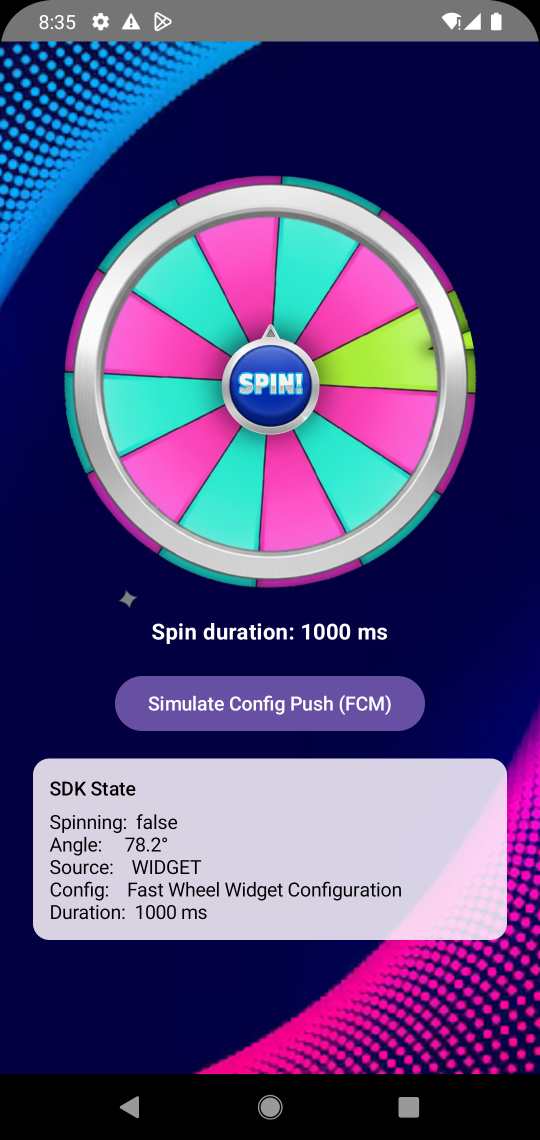
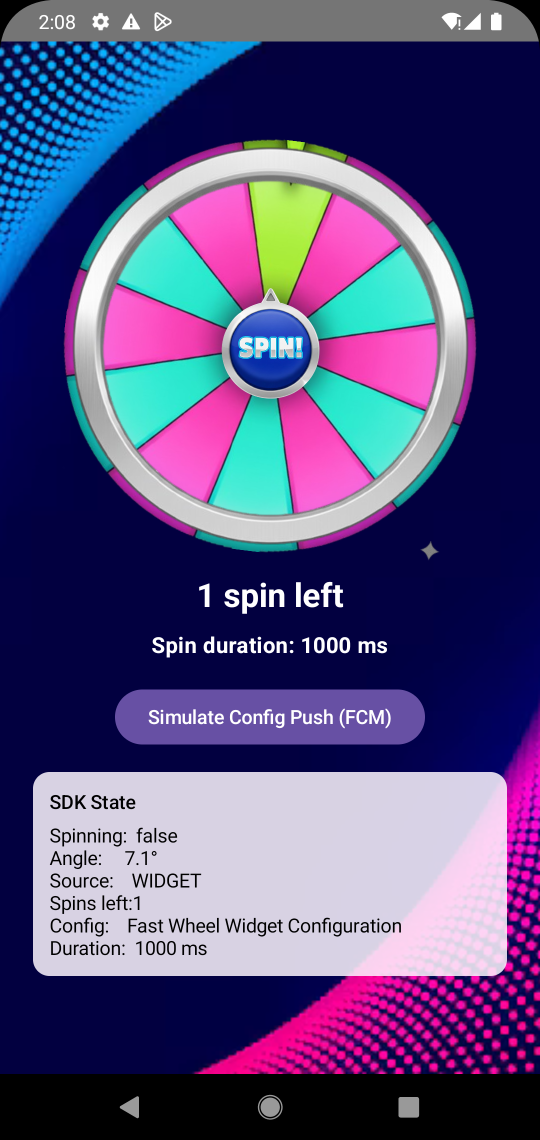
spins remaining + new scrnshots

diff --git a/spinwheel-sdk/src/main/java/com/bez/spinwheel_sdk/presentation/WheelComposable.kt b/spinwheel-sdk/src/main/java/com/bez/spinwheel_sdk/presentation/WheelComposable.kt
@@ -91,6 +91,8 @@ private fun SpinWheelScreen(config: WheelConfig) {
 
     val sdkState by SpinWheelSdk.spinState.collectAsState()
     val anySpinning = isSpinning || sdkState.isSpinning
+    val spinsRemaining = sdkState.spinsRemaining
+    val disabled = anySpinning || spinsRemaining == 0
 
     // When the activity returns to foreground, snap instantly to the latest saved angle.
     // snapTo() completes synchronously with no animation — no flag or listener needed.
@@ -122,7 +124,7 @@ private fun SpinWheelScreen(config: WheelConfig) {
 
 
     fun triggerSpin() {
-        val spins = (rotation.minimumSpins..rotation.maximumSpins).random()
+        val spins = (minOf(rotation.minimumSpins, rotation.maximumSpins)..maxOf(rotation.minimumSpins, rotation.maximumSpins)).random()
         val delta = spins * 360f + Random.nextFloat() * 360f
         val startAngle = wheelAngle.value
         scope.launch {
@@ -185,18 +187,29 @@ private fun SpinWheelScreen(config: WheelConfig) {
                     modifier = Modifier.fillMaxSize()
                 )
 
-                // ── Layer 4: spin button — disabled while any spin is in progress ──
+                // ── Layer 4: spin button — disabled while spinning or spins exhausted ──
                 Image(
                     painter = painterResource(R.drawable.wheel_spin),
-                    contentDescription = if (anySpinning) null else "Tap to spin",
+                    contentDescription = if (disabled) null else "Tap to spin",
                     modifier = Modifier
                         .size(96.dp)
-                        .alpha(if (anySpinning) 0.35f else 1f)
-                        .clickable(enabled = !anySpinning) { triggerSpin() }
+                        .alpha(if (disabled) 0.35f else 1f)
+                        .clickable(enabled = !disabled) { triggerSpin() }
                 )
             }
 
-            Spacer(modifier = Modifier.height(20.dp))
+            Spacer(modifier = Modifier.height(16.dp))
+
+            // ── Spins remaining counter ───────────────────────────────
+            if (spinsRemaining != null) {
+                val label = if (spinsRemaining == 1) "1 spin left" else "$spinsRemaining spins left"
+                Text(
+                    text = label,
+                    style = MaterialTheme.typography.headlineSmall.copy(fontWeight = FontWeight.Bold),
+                    color = if (spinsRemaining == 0) Color(0xFFFF6B6B) else Color.White
+                )
+                Spacer(modifier = Modifier.height(8.dp))
+            }
 
             // ── Duration badge ────────────────────────────────────────
             Text(
@@ -213,7 +226,7 @@ private fun SpinWheelScreen(config: WheelConfig) {
                     WorkManager.getInstance(context)
                         .enqueue(OneTimeWorkRequestBuilder<ConfigSyncWorker>().build())
                 },
-                enabled = !anySpinning
+                enabled = !anySpinning  // config push always available, even when spins exhausted
             ) {
                 Text("Simulate Config Push (FCM)")
             }
@@ -238,6 +251,7 @@ private fun SpinWheelScreen(config: WheelConfig) {
                     Text("Spinning:  ${sdkState.isSpinning}")
                     Text("Angle:     ${"%.1f".format(sdkState.currentAngle % 360f)}°")
                     Text("Source:    ${sdkState.lastSpinSource}")
+                    Text("Spins left:${sdkState.spinsRemaining ?: "-"}")
                     Text("Config:    ${sdkState.activeConfig?.name ?: "none"}")
                     Text("Duration:  ${sdkState.activeConfig?.wheel?.rotation?.duration ?: "-"} ms")
                 }

diff --git a/spinwheel-sdk/src/main/java/com/bez/spinwheel_sdk/presentation/widget/SpinWheelWidgetProvider.kt b/spinwheel-sdk/src/main/java/com/bez/spinwheel_sdk/presentation/widget/SpinWheelWidgetProvider.kt
@@ -50,6 +50,8 @@ class SpinWheelWidgetProvider : AppWidgetProvider() {
 
         val state = WidgetState(context)
         if (state.isWidgetSpinning() || state.isAppSpinning()) return
+        val remaining = state.getSpinsRemaining()
+        if (remaining != null && remaining <= 0) return
 
         // Seed config from assets if widget tapped before any FCM push simulation.
         if (ConfigPrefs(context).load() == null) {
@@ -76,19 +78,30 @@ fun updateWidget(context: Context, manager: AppWidgetManager, appWidgetId: Int) 
     val isWidgetSpinning = state.isWidgetSpinning()
     val isAppSpinning = state.isAppSpinning()
     val anySpinning = isWidgetSpinning || isAppSpinning
+    val spinsRemaining = state.getSpinsRemaining()
+    val disabled = anySpinning || spinsRemaining == 0
 
     val views = RemoteViews(context.packageName, R.layout.widget_layout)
 
     // Wheel always shows the current angle; partial updates push frames during animation.
     views.setImageViewBitmap(R.id.widget_wheel, rotatedBitmap(context, R.drawable.wheel, state.getRotation()))
 
-    // Spin button: always visible, dimmed while any spin is in progress.
+    // Spin button: always visible, dimmed while disabled.
     views.setImageViewBitmap(
         R.id.widget_spin_btn,
-        if (anySpinning) dimmedBitmap(context, R.drawable.wheel_spin, alpha = 90)
+        if (disabled) dimmedBitmap(context, R.drawable.wheel_spin, alpha = 90)
         else decodeBitmap(context, R.drawable.wheel_spin)
     )
     views.setViewVisibility(R.id.widget_spin_btn, View.VISIBLE)
+
+    // Spins remaining counter — hidden until config is loaded.
+    if (spinsRemaining != null) {
+        val label = if (spinsRemaining == 1) "1 spin left" else "$spinsRemaining spins left"
+        views.setTextViewText(R.id.widget_spins_remaining, label)
+        views.setViewVisibility(R.id.widget_spins_remaining, View.VISIBLE)
+    } else {
+        views.setViewVisibility(R.id.widget_spins_remaining, View.GONE)
+    }
 
     // Explicitly clear root click so no stale intent survives a widget update.
     views.setOnClickPendingIntent(R.id.widget_root, null)
@@ -101,7 +114,7 @@ fun updateWidget(context: Context, manager: AppWidgetManager, appWidgetId: Int) 
         context, 0, spinIntent,
         PendingIntent.FLAG_UPDATE_CURRENT or PendingIntent.FLAG_IMMUTABLE
     )
-    views.setOnClickPendingIntent(R.id.widget_spin_btn, if (anySpinning) null else pendingIntent)
+    views.setOnClickPendingIntent(R.id.widget_spin_btn, if (disabled) null else pendingIntent)
 
     manager.updateAppWidget(appWidgetId, views)
 }

diff --git a/spinwheel-sdk/src/main/java/com/bez/spinwheel_sdk/SpinWheelSdk.kt b/spinwheel-sdk/src/main/java/com/bez/spinwheel_sdk/SpinWheelSdk.kt
@@ -72,11 +72,16 @@ object SpinWheelSdk {
         val widgetState = WidgetState(appCtx)
         val config = ConfigPrefs(appCtx).load()
 
+        // Seed spin counter: use persisted value, or initialise from config if first launch.
+        val spinsRemaining = widgetState.getSpinsRemaining()
+            ?: config?.wheel?.rotation?.maximumSpins?.also { widgetState.setSpinsRemaining(it) }
+
         _spinState.value = SpinWheelState(
             isSpinning = false,   // never inherit a stale spinning flag on cold start
             currentAngle = widgetState.getRotation(),
             activeConfig = config,
-            lastSpinSource = SpinSource.NONE
+            lastSpinSource = SpinSource.NONE,
+            spinsRemaining = spinsRemaining
         )
 
         // Clear any stale app-spinning flag left by a previous crash.
@@ -150,8 +155,8 @@ object SpinWheelSdk {
     }
 
     internal fun onAppSpinCompleted(angle: Float) {
-        _spinState.update { it.copy(isSpinning = false, currentAngle = angle) }
-        // Clear placeholder — widget will be redrawn by the rotation prefs listener.
+        val newSpins = decrementSpins()
+        _spinState.update { it.copy(isSpinning = false, currentAngle = angle, spinsRemaining = newSpins ?: it.spinsRemaining) }
         appContext?.let { ctx -> WidgetState(ctx).setAppSpinning(false) }
     }
 
@@ -164,10 +169,26 @@ object SpinWheelSdk {
     }
 
     internal fun onWidgetSpinCompleted(angle: Float) {
-        _spinState.update { it.copy(isSpinning = false, currentAngle = angle) }
+        val newSpins = decrementSpins()
+        _spinState.update { it.copy(isSpinning = false, currentAngle = angle, spinsRemaining = newSpins ?: it.spinsRemaining) }
     }
 
     internal fun onConfigUpdated(config: WheelConfig) {
-        _spinState.update { it.copy(activeConfig = config) }
+        val newCount = config.wheel.rotation.maximumSpins
+        appContext?.let { WidgetState(it).setSpinsRemaining(newCount) }
+        _spinState.update { it.copy(activeConfig = config, spinsRemaining = newCount) }
+    }
+
+    /**
+     * Decrements the persistent spin counter by 1.
+     * Returns the new count, or null if the counter was not yet initialised.
+     */
+    private fun decrementSpins(): Int? {
+        val ctx = appContext ?: return null
+        val ws = WidgetState(ctx)
+        val current = ws.getSpinsRemaining() ?: return null
+        val newCount = (current - 1).coerceAtLeast(0)
+        ws.setSpinsRemaining(newCount)
+        return newCount
     }
 }

diff --git a/spinwheel-sdk/src/main/java/com/bez/spinwheel_sdk/presentation/widget/WidgetState.kt b/spinwheel-sdk/src/main/java/com/bez/spinwheel_sdk/presentation/widget/WidgetState.kt
@@ -19,10 +19,16 @@ internal class WidgetState(context: Context) {
     fun isAppSpinning(): Boolean = prefs.getBoolean(KEY_APP_SPINNING, false)
     fun setAppSpinning(v: Boolean) = prefs.edit { putBoolean(KEY_APP_SPINNING, v) }
 
+    /** Remaining spin count. Null = not yet seeded from config (no limit applied). */
+    fun getSpinsRemaining(): Int? =
+        if (prefs.contains(KEY_SPINS_REMAINING)) prefs.getInt(KEY_SPINS_REMAINING, 0) else null
+    fun setSpinsRemaining(count: Int) = prefs.edit { putInt(KEY_SPINS_REMAINING, count) }
+
     companion object {
         internal const val PREFS_NAME = "spinwheel_widget_state"
         internal const val KEY_ROTATION = "rotation"
         private const val KEY_WIDGET_SPINNING = "widget_spinning"
         private const val KEY_APP_SPINNING = "app_spinning"
+        private const val KEY_SPINS_REMAINING = "spins_remaining"
     }
 }

diff --git a/spinwheel-sdk/src/main/java/com/bez/spinwheel_sdk/presentation/widget/SpinAnimationWorker.kt b/spinwheel-sdk/src/main/java/com/bez/spinwheel_sdk/presentation/widget/SpinAnimationWorker.kt
@@ -35,7 +35,7 @@ class SpinAnimationWorker(
         val config = ConfigPrefs(context).load() ?: return Result.failure()
         val rotation = config.wheel.rotation
         val duration = rotation.duration.coerceIn(1000, 5000)
-        val delta = (rotation.minimumSpins..rotation.maximumSpins).random() * 360f +
+        val delta = (minOf(rotation.minimumSpins, rotation.maximumSpins)..maxOf(rotation.minimumSpins, rotation.maximumSpins)).random() * 360f +
                 Random.nextFloat() * 360f
 
         val startAngle = state.getRotation()

diff --git a/spinwheel-sdk/src/main/java/com/bez/spinwheel_sdk/SpinWheelState.kt b/spinwheel-sdk/src/main/java/com/bez/spinwheel_sdk/SpinWheelState.kt
@@ -10,5 +10,7 @@ data class SpinWheelState(
     val isSpinning: Boolean = false,
     val currentAngle: Float = 0f,
     val activeConfig: WheelConfig? = null,
-    val lastSpinSource: SpinSource = SpinSource.NONE
+    val lastSpinSource: SpinSource = SpinSource.NONE,
+    /** Remaining spins allowed. Null = no config loaded yet (no limit). 0 = exhausted. */
+    val spinsRemaining: Int? = null
 )
